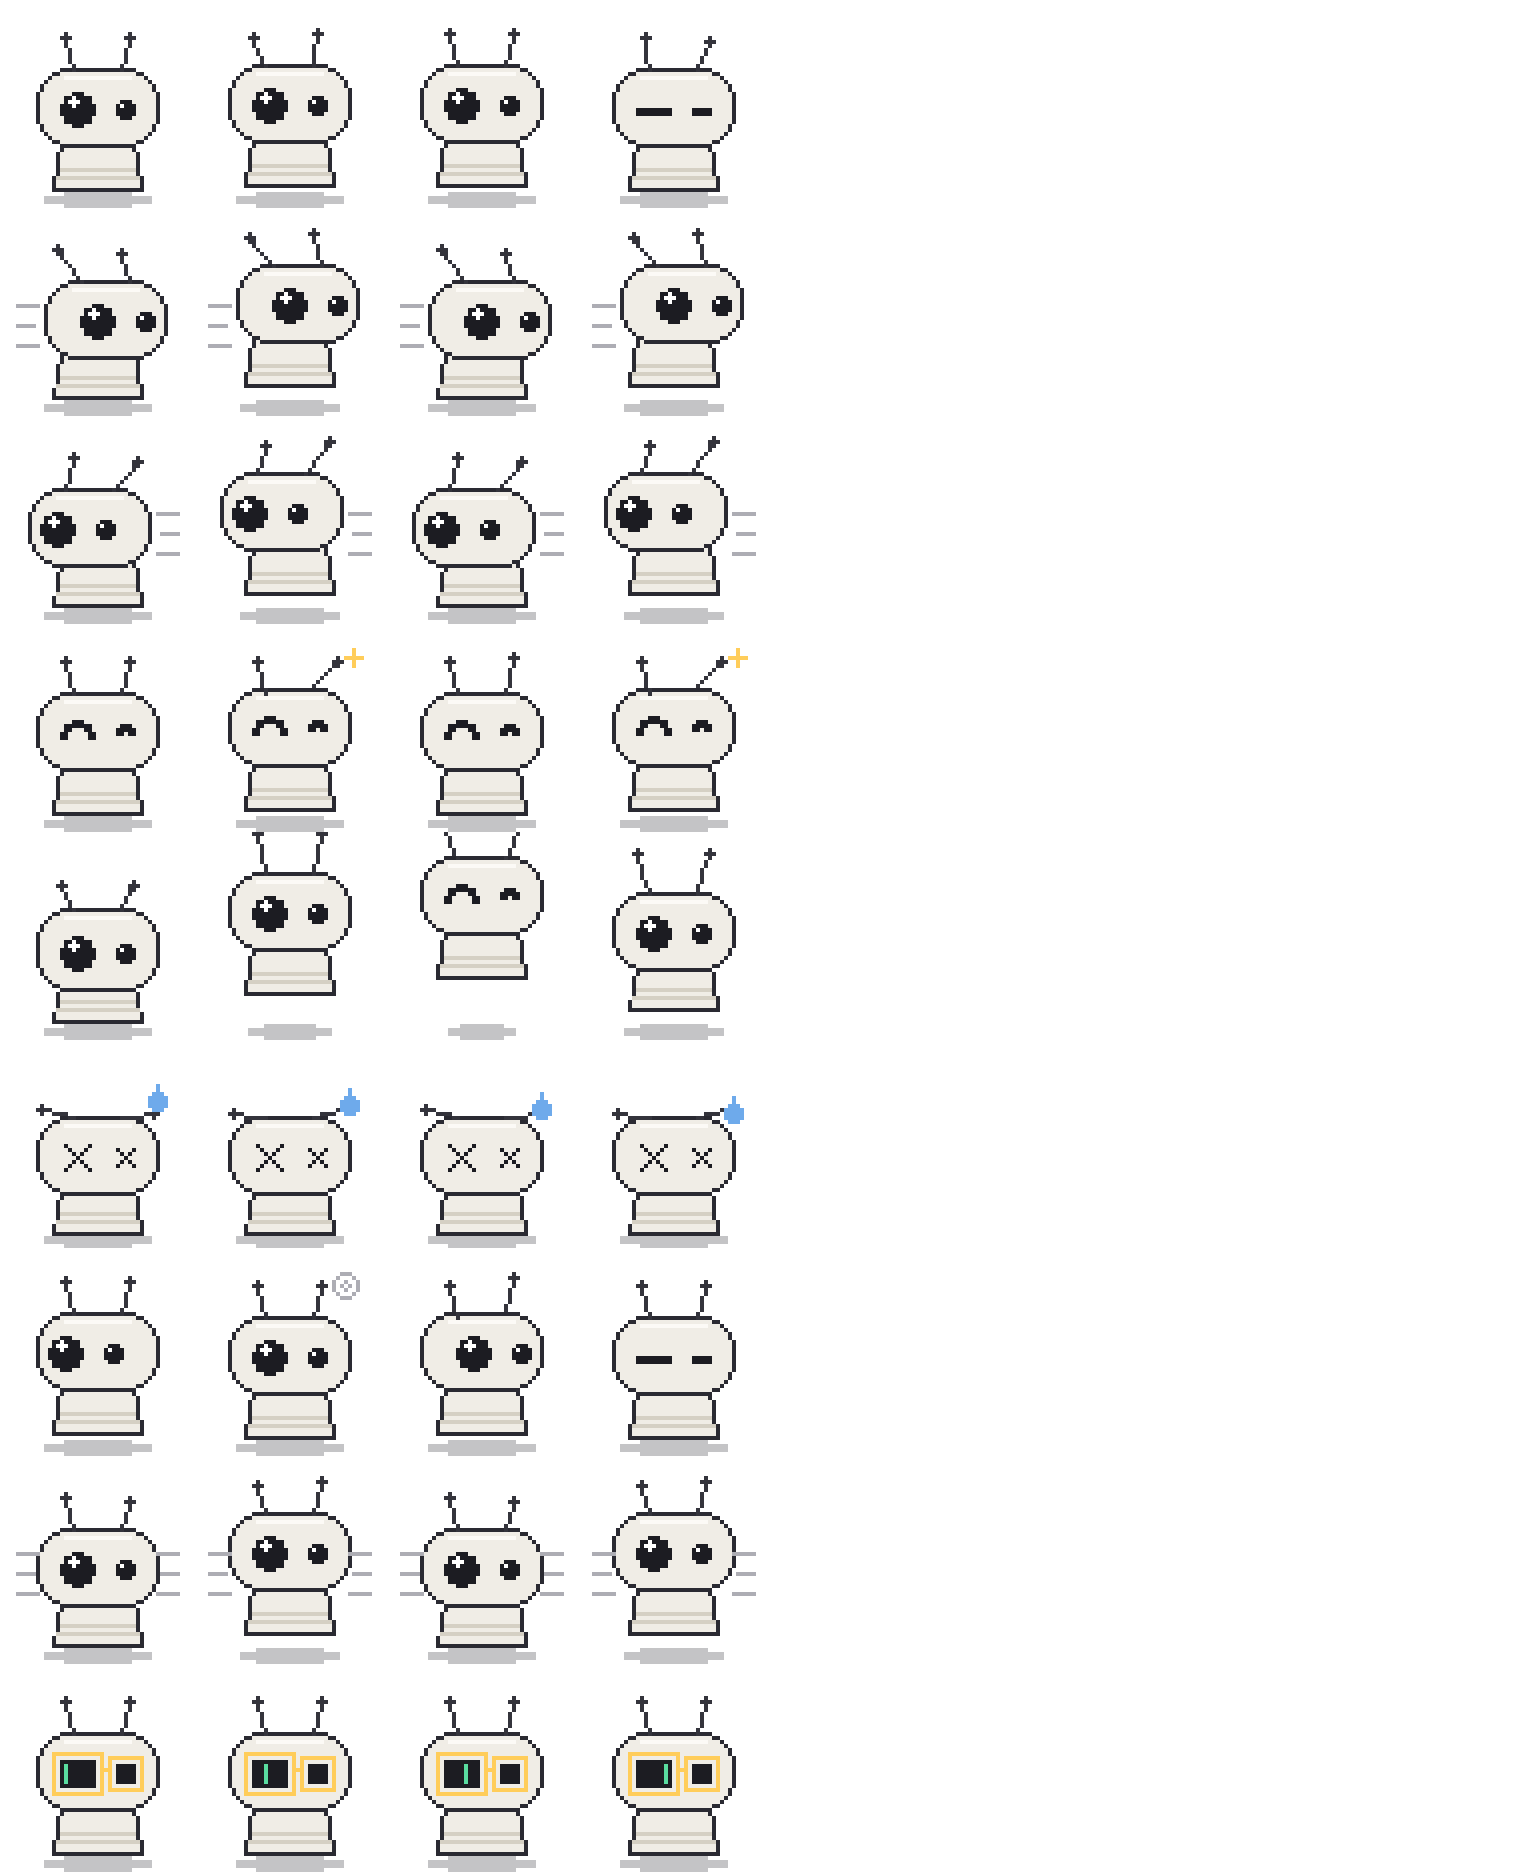
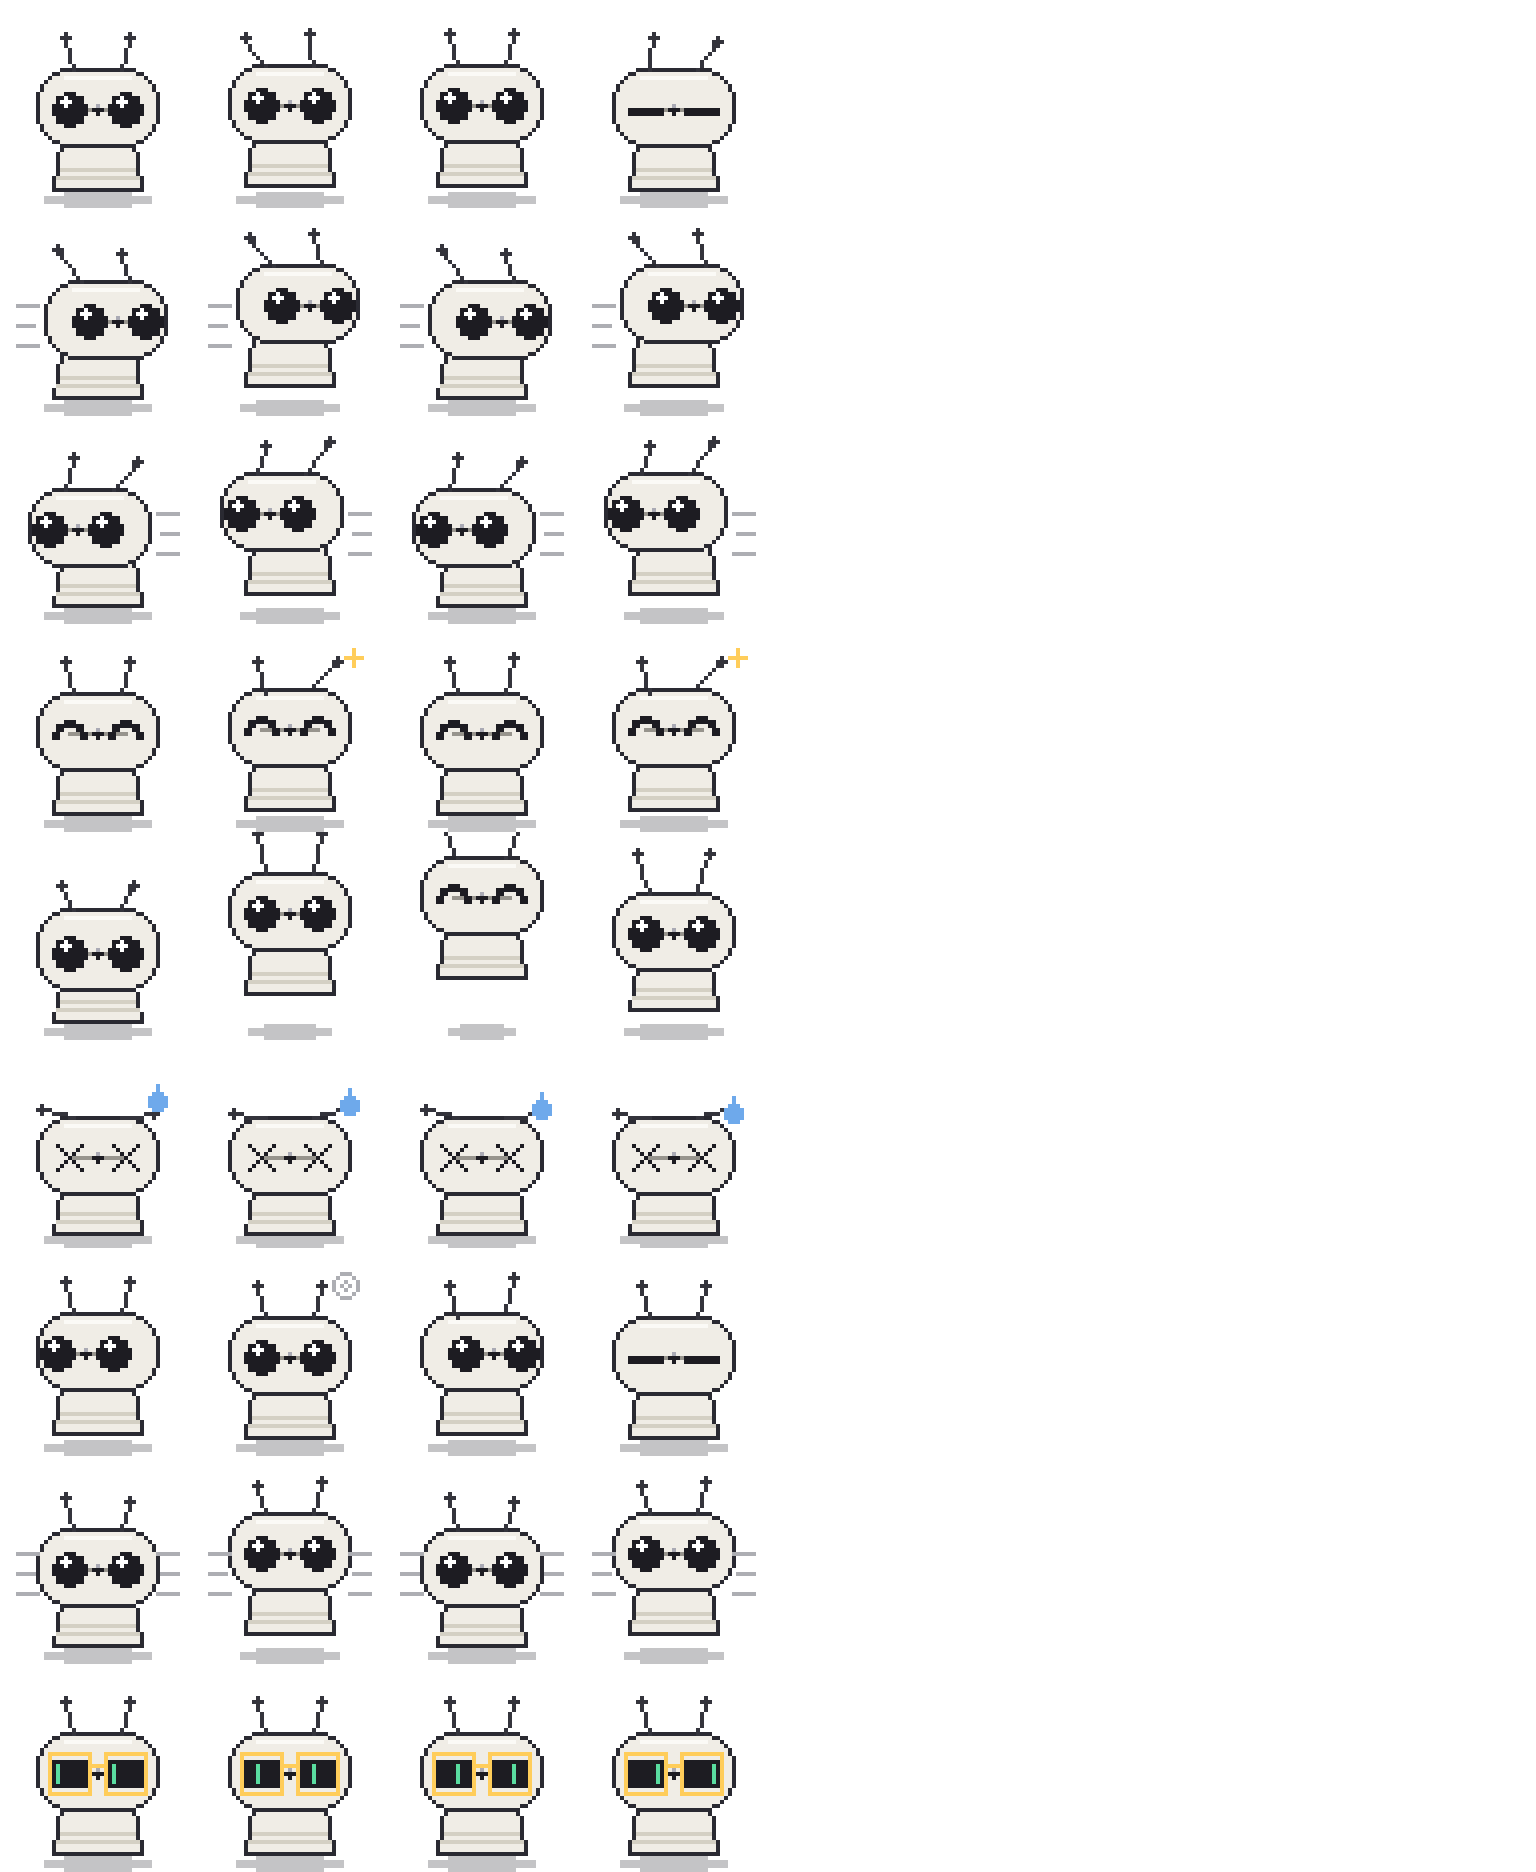
Make the face match the real Reachy Mini and boost antenna wiggle
- Two equal round camera eyes joined by a thin seam, with the tiny
  center camera lens sitting on it (was one big + one small eye)
- Wider antenna sway in the idle loop so the wiggle is clearly visible

Claude-Session: https://claude.ai/code/session_01FnqqnHTN3C9xG7t7b8vUPW

diff --git a/generate_sprite.py b/generate_sprite.py
@@ -51,32 +51,38 @@ def draw_antenna(d, x0, y0, tip_dx, tip_dy):
     d.ellipse([tip[0] - 1, tip[1] - 1, tip[0] + 1, tip[1] + 1], fill=ANTENNA)
 
 
-def draw_eyes(d, cx, cy, style="open", look=0, scan=0, mirror=False):
-    """Reachy Mini's asymmetric camera eyes: one big lens, one small."""
-    big_x = cx - 5 + look
-    small_x = cx + 7 + look
-    if mirror:
-        big_x = cx + 5 + look
-        small_x = cx - 7 + look
+def draw_eyes(d, cx, cy, style="open", look=0, scan=0):
+    """Reachy Mini's face: two equal round camera eyes joined by a thin
+    bridge, with a tiny center camera lens sitting on the bridge."""
+    lx = cx - 7 + look
+    rx = cx + 7 + look
+    mx = cx + look
+
+    # thin seam connecting the eyes + tiny center camera lens
+    # (drawn first, eyes go on top)
+    d.line([lx, cy, rx, cy], fill=(150, 148, 140, 255), width=1)
+    d.ellipse([mx - 1, cy - 1, mx + 1, cy + 1], fill=EYE_DARK)
+    d.point((mx, cy - 1), fill=(170, 170, 180, 255))
+
     if style == "open":
-        d.ellipse([big_x - 4, cy - 4, big_x + 4, cy + 4], fill=EYE_DARK)
-        d.ellipse([big_x - 2, cy - 3, big_x, cy - 1], fill=EYE_GLINT)
-        d.ellipse([small_x - 2, cy - 2, small_x + 2, cy + 2], fill=EYE_DARK)
-        d.point((small_x - 1, cy - 1), fill=EYE_GLINT)
+        for ex in (lx, rx):
+            d.ellipse([ex - 4, cy - 4, ex + 4, cy + 4], fill=EYE_DARK)
+            d.ellipse([ex - 2, cy - 3, ex, cy - 1], fill=EYE_GLINT)
     elif style == "blink":
-        d.line([big_x - 4, cy, big_x + 4, cy], fill=EYE_DARK, width=2)
-        d.line([small_x - 2, cy, small_x + 2, cy], fill=EYE_DARK, width=2)
+        for ex in (lx, rx):
+            d.line([ex - 4, cy, ex + 4, cy], fill=EYE_DARK, width=2)
     elif style == "happy":
-        d.arc([big_x - 4, cy - 3, big_x + 4, cy + 5], 180, 360, fill=EYE_DARK, width=2)
-        d.arc([small_x - 2, cy - 2, small_x + 2, cy + 3], 180, 360, fill=EYE_DARK, width=2)
+        for ex in (lx, rx):
+            d.arc([ex - 4, cy - 3, ex + 4, cy + 5], 180, 360, fill=EYE_DARK, width=2)
     elif style == "dizzy":
-        for ex, r in ((big_x, 3), (small_x, 2)):
-            d.line([ex - r, cy - r, ex + r, cy + r], fill=EYE_DARK, width=1)
-            d.line([ex - r, cy + r, ex + r, cy - r], fill=EYE_DARK, width=1)
+        for ex in (lx, rx):
+            d.line([ex - 3, cy - 3, ex + 3, cy + 3], fill=EYE_DARK, width=1)
+            d.line([ex - 3, cy + 3, ex + 3, cy - 3], fill=EYE_DARK, width=1)
     elif style == "scan":
-        d.rectangle([big_x - 4, cy - 3, big_x + 4, cy + 3], fill=EYE_DARK)
-        d.line([big_x - 3 + scan, cy - 2, big_x - 3 + scan, cy + 2], fill=(90, 220, 160, 255), width=1)
-        d.rectangle([small_x - 2, cy - 2, small_x + 2, cy + 2], fill=EYE_DARK)
+        for ex in (lx, rx):
+            d.rectangle([ex - 4, cy - 3, ex + 4, cy + 3], fill=EYE_DARK)
+            d.line([ex - 3 + scan, cy - 2, ex - 3 + scan, cy + 2],
+                   fill=(90, 220, 160, 255), width=1)
 
 
 def draw_robot(
@@ -141,10 +147,10 @@ def draw_robot(
     draw_eyes(d, hx, face_cy, style=eye_style, look=look, scan=scan)
 
     if glasses:
-        big_x, small_x = hx - 5 + look, hx + 7 + look
-        d.rectangle([big_x - 6, face_cy - 5, big_x + 6, face_cy + 5], outline=SPARK, width=1)
-        d.rectangle([small_x - 4, face_cy - 4, small_x + 4, face_cy + 4], outline=SPARK, width=1)
-        d.line([big_x + 6, face_cy - 1, small_x - 4, face_cy - 1], fill=SPARK, width=1)
+        lx, rx = hx - 7 + look, hx + 7 + look
+        d.rectangle([lx - 5, face_cy - 5, lx + 5, face_cy + 5], outline=SPARK, width=1)
+        d.rectangle([rx - 5, face_cy - 5, rx + 5, face_cy + 5], outline=SPARK, width=1)
+        d.line([lx + 5, face_cy - 2, rx - 5, face_cy - 2], fill=SPARK, width=1)
 
     # Antennae, planted on the head top.
     base_l = (hx - 6, head_top + head_tilt)
@@ -170,8 +176,8 @@ def motion_lines(d, side, y=30):
 def row_idle():
     frames = []
     bob = [0, -1, -1, 0]
-    sway = [(-2, 8), (-3, 7), (-2, 8), (-1, 8)]
-    sway_r = [(2, 8), (1, 8), (2, 8), (3, 7)]
+    sway = [(-2, 8), (-5, 7), (-2, 8), (1, 8)]
+    sway_r = [(2, 8), (-1, 8), (2, 8), (5, 7)]
     for i in range(4):
         img, d = new_frame()
         draw_robot(d, dy=bob[i], eye_style="blink" if i == 3 else "open",

diff --git a/README.md b/README.md
@@ -2,8 +2,8 @@
 
 A custom [Codex pet](https://github.com/openai/codex) sprite of the
 **Reachy Mini** robot (the little cream desk robot by Pollen Robotics /
-Hugging Face — round head, one big and one small camera eye, two wobbly
-antennae, cylindrical body).
+Hugging Face — round head, two round camera eyes joined by a thin seam
+with a tiny center camera lens, two wobbly antennae, cylindrical body).
 
 > **Note:** this is an unofficial, fan-made community sprite. It is not
 > affiliated with, endorsed by, or produced by Pollen Robotics or
@@ -36,7 +36,7 @@ preview/                per-row PNG strips and animated GIFs, plus the full atla
 | 6 | failed | flopped antennae, X eyes, sliding sweat drop |
 | 7 | waiting | looks left/right, head tilt, blink, "?" ripple |
 | 8 | running | front-facing bounce, streaks both sides |
-| 9 | review | reading glasses, green scan line sweeping the big lens |
+| 9 | review | reading glasses, green scan lines sweeping both lenses |
 
 A verification pass in `generate_sprite.py` asserts the atlas is exactly
 1536x1872 and that every trailing cell is fully transparent (the renderer
